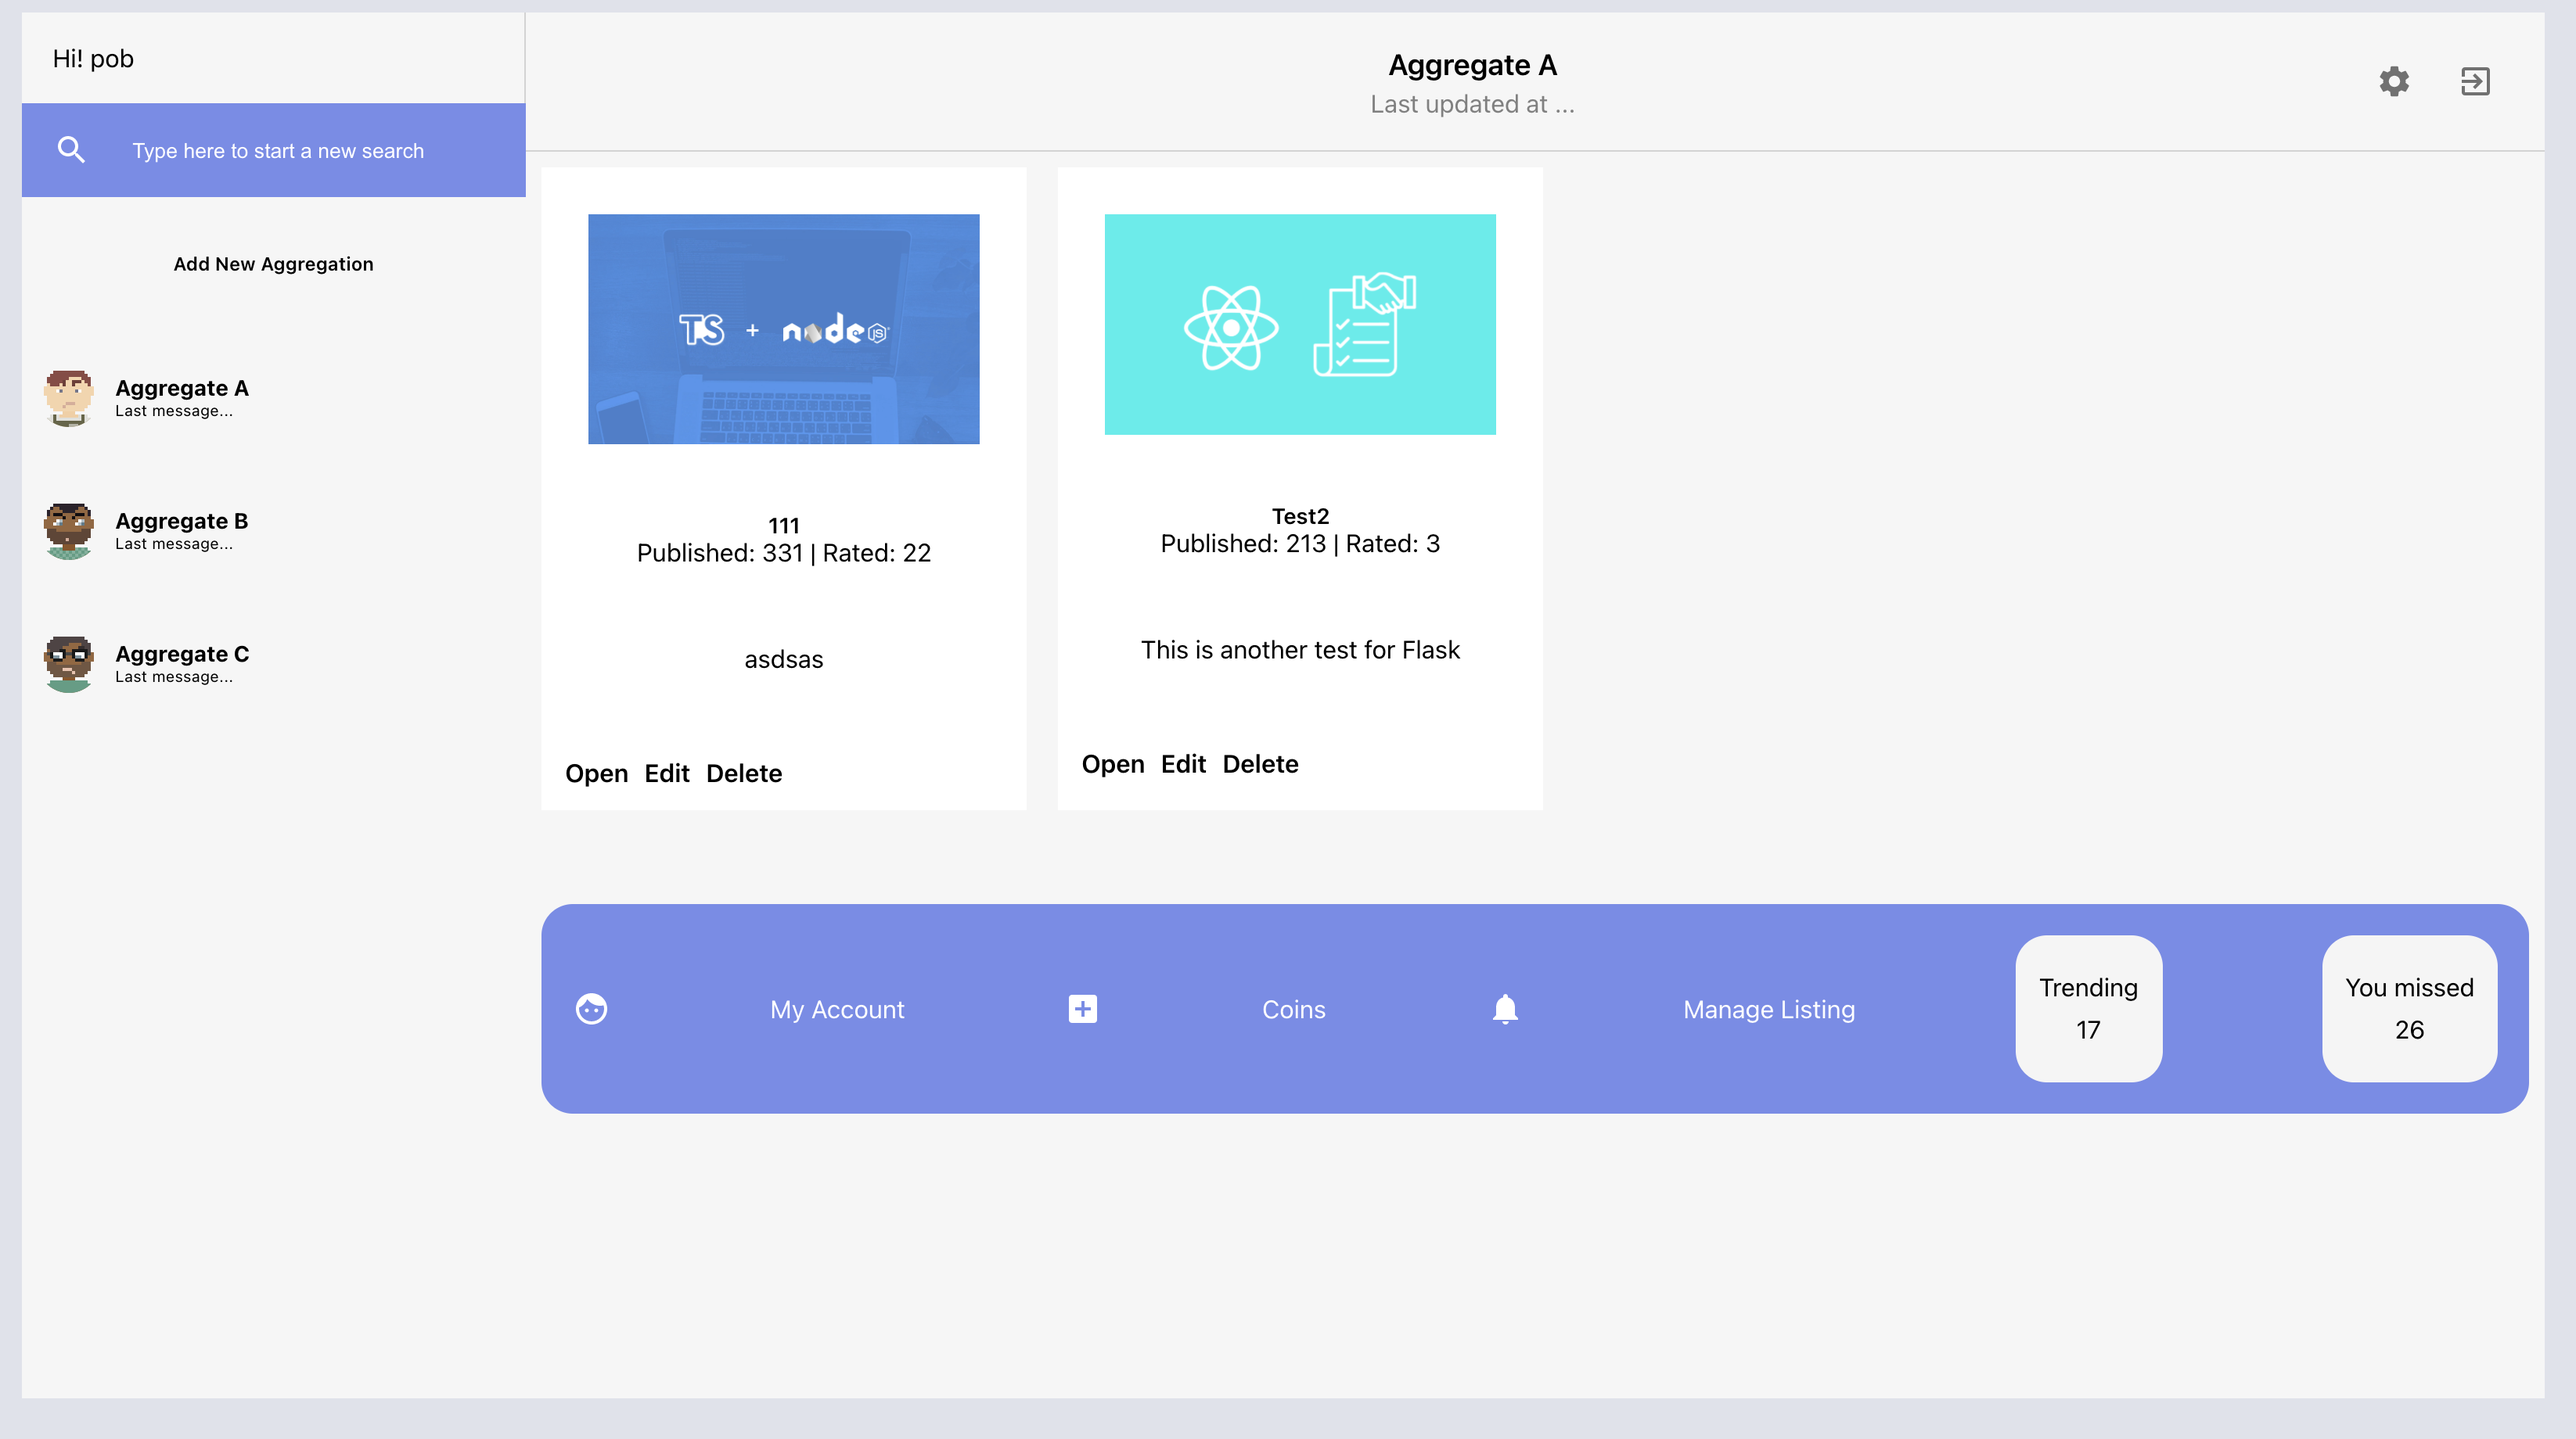
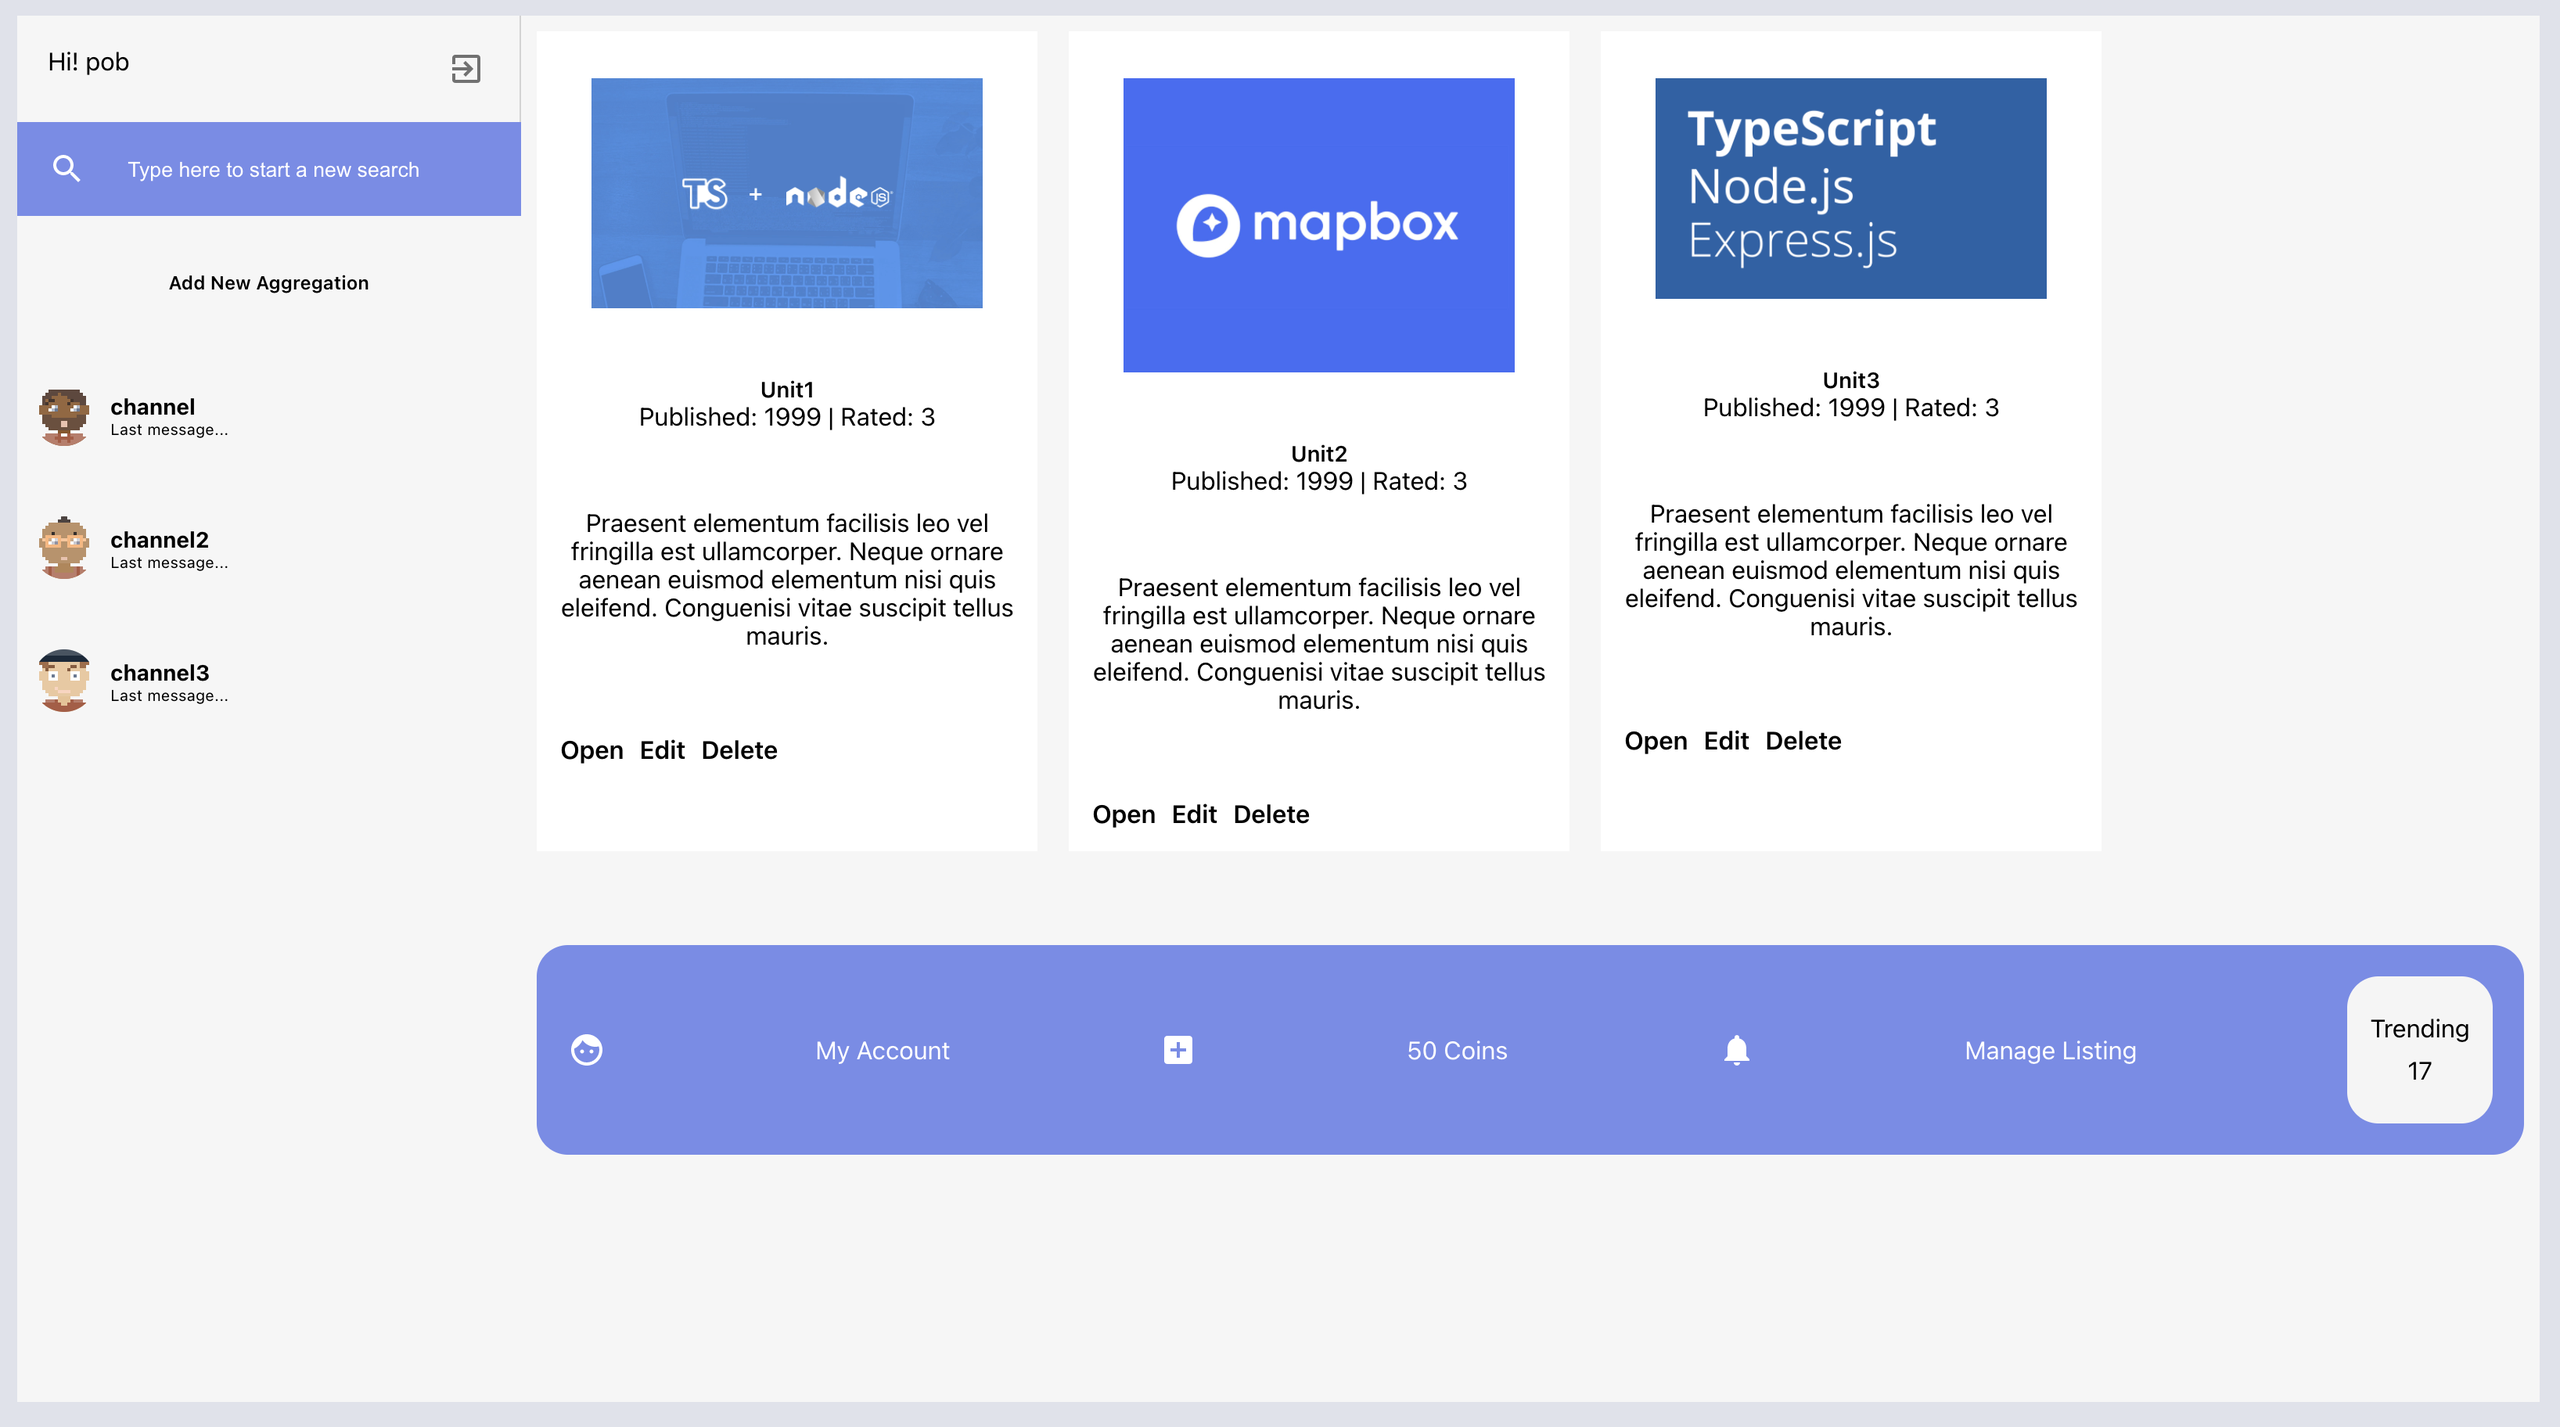
Style

diff --git a/src/client/src/Components/Sidebar/Sidebar.js b/src/client/src/Components/Sidebar/Sidebar.js
@@ -5,13 +5,12 @@ import SidebarContent from "./SidebarContent";
 import AuthService from "../../Hooks/auth-service";
 //
 import { IconButton } from "@material-ui/core";
-//import SettingsIcon from "@material-ui/icons/Settings";
 import ExitToAppIcon from "@material-ui/icons/ExitToApp";
 //
 import { useHistory } from "react-router-dom";
 
 function SidebarContainer() {
-  const [channels, setChannels] = useState([]);
+  const [datas, setDatas] = useState([]);
   //
   const currentUser = AuthService.getCurrentUser();
   //console.log(currentUser);
@@ -26,8 +25,7 @@ function SidebarContainer() {
   useEffect(() => {
     fetch("/markets").then((res) =>
       res.json().then((data) => {
-        // console.log(data.markets);
-        setChannels(data.markets);
+        setDatas(data.markets);
       })
     );
   }, []);
@@ -36,9 +34,6 @@ function SidebarContainer() {
     <div className="sidebar">
       <div className="sidebar__header">
         <p>Hi! {currentUser}</p>
-        {/*         <IconButton>
-          <SettingsIcon />
-        </IconButton> */}
         <IconButton onClick={logOut}>
           <ExitToAppIcon />
         </IconButton>
@@ -51,13 +46,9 @@ function SidebarContainer() {
       </div>
       <div className="sidebar__chats">
         <SidebarContent addNewChat />
-        {channels.map((channel) => (
+        {datas.map((data) => (
           //  console.log(channel)
-          <SidebarContent
-            key={channel.channel}
-            id="roomID"
-            name={channel.channel}
-          />
+          <SidebarContent key={data.channel} id="roomID" name={data.channel} />
         ))}
       </div>
     </div>

diff --git a/src/client/src/Components/Listing/Listing.js b/src/client/src/Components/Listing/Listing.js
@@ -2,9 +2,12 @@ import React, { useState } from "react";
 import Form from "react-validation/build/form";
 import Input from "react-validation/build/input";
 import UseRequest from "../../Hooks/axios-helper";
+import { useHistory } from "react-router-dom";
 import "./Listing.css";
 
 function Listing() {
+  let history = useHistory();
+
   const [title, setTitle] = useState("");
   const [rating, setRating] = useState("");
   const [year, setYear] = useState("");
@@ -28,7 +31,7 @@ function Listing() {
       baseURL: baseURL,
       channel: channel,
     },
-    onSuccess: () => this.props.history.push("/"),
+    onSuccess: () => history.push("/"),
   });
 
   const addListing = async (e) => {

diff --git a/src/client/src/Components/Navigation/Navigation.js b/src/client/src/Components/Navigation/Navigation.js
@@ -28,10 +28,6 @@ function Navigation() {
         <h1>Trending</h1>
         <p>17</p>
       </div>
-      <div className="navigation__box">
-        <h1>You missed</h1>
-        <p>26</p>
-      </div>
     </div>
   );
 }
